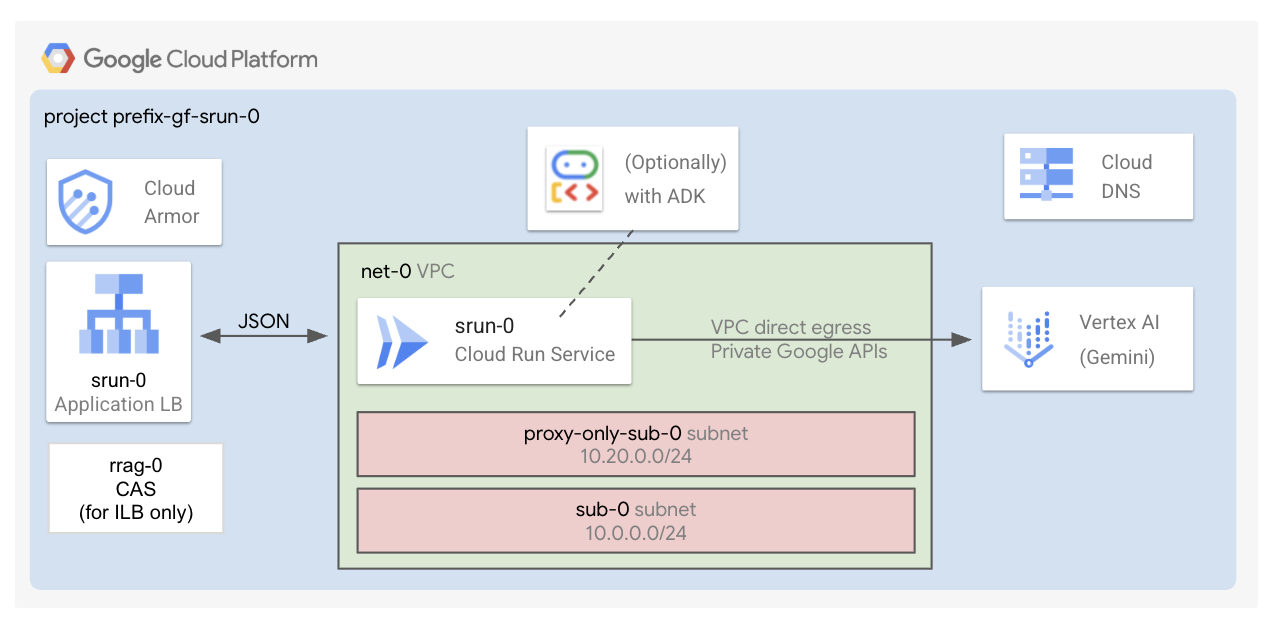
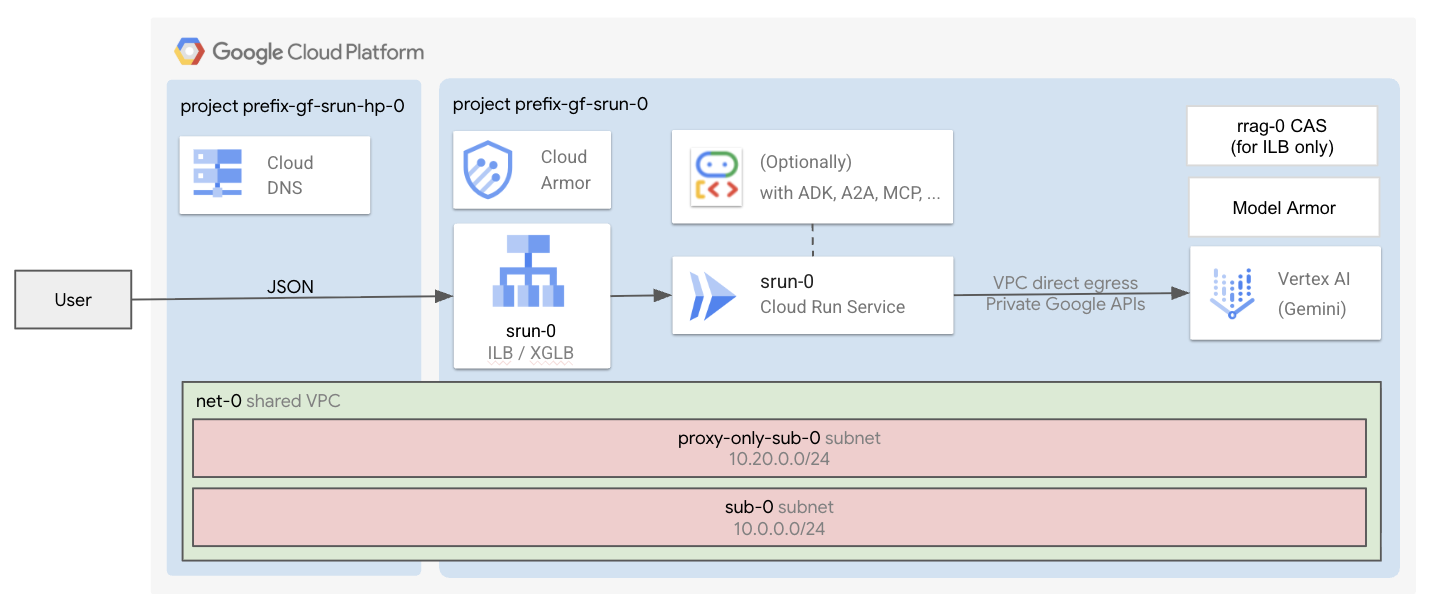
Docs updates

diff --git a/cloud-run-single/0-prereqs/README.md b/cloud-run-single/0-prereqs/README.md
@@ -1,20 +1,29 @@
-# Cloud Run - Single / Project Setup
+# Cloud Run - Single / Prerequisites stage
 
 This stage is part of the `Cloud Run - Single` factory.
-It is responsible for setting up the Google Cloud project, activating the APIs and granting the roles you need to deploy and manage the resources that enable the AI use case.
 
-It leverages the Cloud Foundation Fabric [`project-factory`](https://github.com/GoogleCloudPlatform/cloud-foundation-fabric/tree/master/modules/project-factory).
+It performs the following tasks:
 
-You can refer to the YAML files [host](data/projects/host/host.yaml) and [service](data/projects/service/service-01.yaml) for more details about enabled APIs and roles assigned in the projects.
+- Sets up the GCP projects.
+- Activates the required APIs.
+- Creates service accounts.
+- Grants required roles to identities (users, service agents, and service accounts).
+- Creates the required networking stack by default (this can be disabled). The stack typically includes a host project, a Shared VPC, subnets, firewall policies and rules, and DNS response policies.
+
+This stage leverages the Cloud Foundation Fabric [project-factory module](https://github.com/GoogleCloudPlatform/cloud-foundation-fabric/tree/master/modules/project-factory).
+
+The [host](data/projects/host/host.yaml) and [service](data/projects/service/service-01.yaml) YAML files contain the definition of these resources.
 
 ## Required roles
 
-To execute this stage, you need these roles:
+To execute this stage, you need the following roles:
 
-- `roles/resourcemanager.projectCreator` on the organization or folder where you will create the project.
-- `roles/billing.user` on the billing account you wish to use.
+- `roles/resourcemanager.projectCreator` on the organization or folder where you create the project.
+- `roles/billing.user` on the billing account you use.
 
-Alternatively, you can use the more permissive `roles/owner` on the organization or folder.
+Alternatively, you can use the more permissive `roles/owner` role on the organization or folder.
+
+If you create the networking stack using this stage, you must also grant yourself the `roles/compute.xpnAdmin` role on the organization or folder.
 
 ## Deploy the stage
 
@@ -27,11 +36,30 @@ terraform init
 terraform apply
 ```
 
-You should now see the `providers.tf` and `terraform.auto.tfvars` files in the [1-apps folder](../1-apps/README.md). Enter the [1-apps folder](../1-apps/README.md) to proceed with the deployment.
+After a successful deployment, the stage generates the `providers.tf` and `terraform.auto.tfvars` files in the [1-apps folder](../1-apps/README.md). Navigate to the [1-apps folder](../1-apps/README.md) to deploy your applications.
 
-## Use existing projects
+## Manage prerequisites independently
 
-The `project_config` variable allows to configure for different scenarios regarding project creation and management, as described in the [main README](../../README.md).
+Skip this stage if you prefer to create the prerequisites using your own workflow.
+
+This factory integrates seamlessly with the latest version of [Fabric FAST](https://github.com/GoogleCloudPlatform/cloud-foundation-fabric/tree/master/fast). You can leverage the Shared VPCs created in your networking stage and the projects created in your project factory.
+
+Alternatively, use your own tooling to create these resources.
+
+In either case, extract the necessary configurations from the [host](data/projects/host/host.yaml) and [service](data/projects/service/service-01.yaml) project definition YAML files, create the resources and move to the [1-apps folder](../1-apps/README.md).
+
+## Create the service project only
+
+You can create the service project only, and do not create the networking stack by using this configuration:
+
+```hcl
+networking_config = {
+  create = false
+}
+```
+
+This is useful if your shared VPC is managed by someone else, outside the factory.
+Remember, in this case you will need to input your VPC and subnet ids manually in the `terraform.auto.tfvars` generated by this stage in [1-apps](../1-apps/README.md).
 <!-- BEGIN TFDOC -->
 ## Variables
 

diff --git a/cloud-run-single/1-apps/README.md b/cloud-run-single/1-apps/README.md
@@ -1,13 +1,22 @@
-# Cloud Run - Single / Platform Deployment
+# Cloud Run - Single / Platform and Apps Deployment
 
-This stage is part of `Cloud Run - Single` factory.
-It is responsible for deploying resources inside the project you created in [0-projects](../0-prereqs) or in an existing project.
+This stage is part of the `Cloud Run - Single` factory.
+
+It performs the following tasks:
+
+- Deploys a Cloud Run service (supporting single or multiple containers).
+- Configures networking and VPC Access for Cloud Run.
+- Optionally creates External and/or Internal Load Balancers with custom domains.
+- Optionally sets up Certificate Manager for your Internal Load Balancers.
+- Optionally configures Model Armor.
+
+It is responsible for deploying resources inside the service project you created in the [0-prereqs](../0-prereqs) stage or in an existing project.
 
 ![Architecture Diagram](../diagram.png)
 
 ## Deploy the stage
 
-This assumes you have created a project leveraging the [0-projects](../0-prereqs) stage.
+If you created your projects through [0-prereqs](../0-prereqs), you should already see in this folder a `providers.tf` and a `terraform.auto.tfvars` file.
 
 ```shell
 cp terraform.tfvars.sample terraform.tfvars # Customize
@@ -19,7 +28,7 @@ terraform apply
 
 ## Query the applications
 
-Once the applications have been deployed, learn sample commands to test them:
+Once you deploy the applications, use these sample commands to test them:
 
 - [Chat](./apps/chat/README.md)
 - [ADK](./apps/adk/README.md)
@@ -27,9 +36,15 @@ Once the applications have been deployed, learn sample commands to test them:
 - [Gemma3](./apps/gemma/README.md)
 - [MCP server](./apps/mcp-server/README.md)
 
-## I have not used 0-projects
+## Manage prerequisites independently
 
-The [0-projects](../0-prereqs) stage generates the necessary Terraform input files for this stage. If you're not using the [0-projects stage](../0-prereqs), you'll need to manually add the required variables to your `terraform.tfvars` file, as defined in [variables.tf](./variables.tf).
+The [0-prereqs](../0-prereqs) stage generates the necessary Terraform input files for this stage. If you manage prerequisites independently (without the [0-prereqs stage](../0-prereqs)), you'll need to manually add the required variables to your `terraform.tfvars` file, as defined in [variables.tf](./variables.tf), and provide the `providers.tf` file.
+
+### Working with Fabric FAST
+
+This stage is fully compatible with the latest version of [Fabric FAST](https://github.com/GoogleCloudPlatform/cloud-foundation-fabric/tree/master/fast).
+You can create your host project and network resources by using your networking stage, and your service project by using your own project factory.
+Once you have completed these operations, create your `providers.tf` file and make sure you drop your `auto.tfvars.json` files from your FAST stages inside this folder. Finally, create your `terraform.tfvars` file referencing the keys of the maps of values imported from FAST, by using [contexts](https://github.com/GoogleCloudPlatform/cloud-foundation-fabric/blob/master/CONTRIBUTING.md#context-based-interpolation).
 <!-- BEGIN TFDOC -->
 ## Variables
 